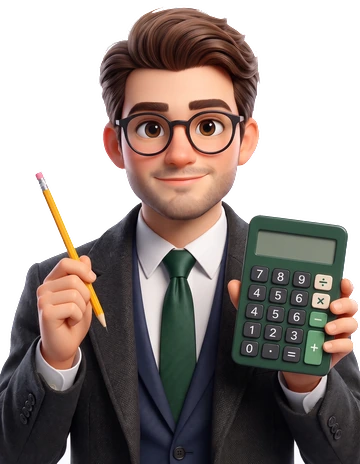
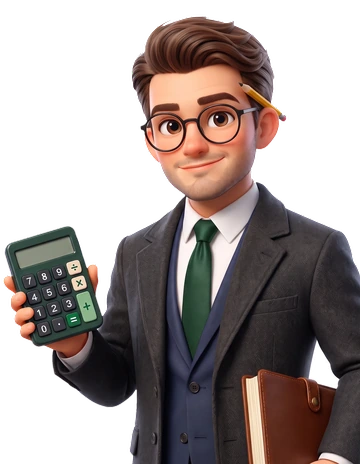
Work in progress: study buddy in the new pose (calculator and ledger)
Face notes from the last round, plus the refit that is still under way.
Not ready to merge.

Claude-Session: https://claude.ai/code/session_01URjRU1fopYThd564JK25x7

diff --git a/tools/buddy_bust.py b/tools/buddy_bust.py
@@ -2,14 +2,15 @@
 (1792 x 2400 on white). Run from the repo root: python3 tools/buddy_bust.py  (needs numpy and Pillow)
 
 The near-white background is cut by filling in from the picture's edges, the cut is pulled in two pixels and softened so
-no white rim is left, and rows 30 to 2340 are scaled to 360 x 464 (1792 / 360 source pixels per bust pixel, the scale
-tools/buddy_face.py and the measurements in src/mascot.js rely on). """
+no white rim is left, and the part from column 10 and row 20, 1560 wide and 2011 tall (his head, the calculator he holds
+out on the picture's left and the top of the ledger under his other arm), is scaled to 360 x 464. That is 1560 / 360
+source pixels per bust pixel, the scale tools/buddy_face.py and the measurements in src/mascot.js rely on. """
 import os
 import numpy as np
 from PIL import Image, ImageDraw, ImageFilter
 
 root = os.path.dirname(os.path.dirname(os.path.abspath(__file__)))
-TOP, W, H = 30, 360, 464
+LEFT, TOP, SPAN, W, H = 10, 20, 1560, 360, 464
 im = Image.open(os.path.join(root, "docs", "art", "buddy-faces", "reference.webp")).convert("RGB")
 sw, sh = im.size
 # background: near-white, colourless pixels joined to the picture's edge (the white is not quite even, so a plain
@@ -21,7 +22,7 @@ for p in [(0, 0), (sw - 1, 0), (sw // 2, 0), (0, sh // 3), (sw - 1, sh // 3), (5
     if m.getpixel(p) == (255, 255, 255): ImageDraw.floodfill(m, p, (255, 0, 255))
 f = np.array(m); solid = ~((f[..., 0] == 255) & (f[..., 1] == 0))
 alpha = Image.fromarray((solid * 255).astype(np.uint8)).filter(ImageFilter.MinFilter(5)).filter(ImageFilter.GaussianBlur(1.3))
-box = (0, TOP, sw, TOP + round(H * sw / W))
+box = (LEFT, TOP, LEFT + SPAN, TOP + round(H * SPAN / W))
 rgb, al = np.array(im.crop(box), np.float32), np.array(alpha.crop(box), np.float32)[..., None] / 255
 pm = Image.fromarray(np.concatenate([rgb * al, al * 255], 2).astype(np.uint8), "RGBA").resize((W, H), Image.LANCZOS)  # premultiplied, so no white bleeds in
 p = np.array(pm, np.float32); al = p[..., 3:] / 255
